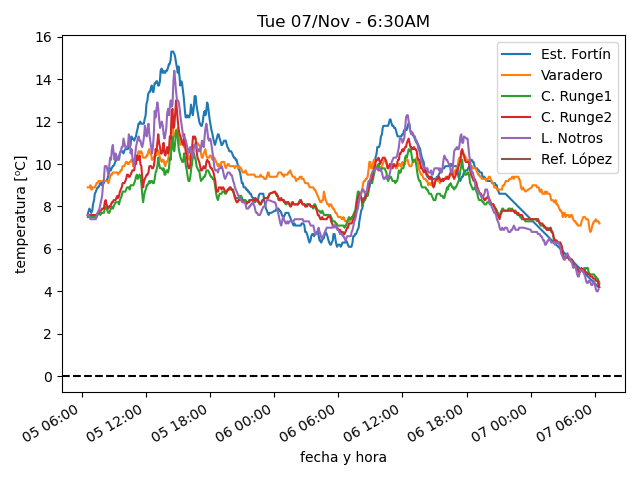
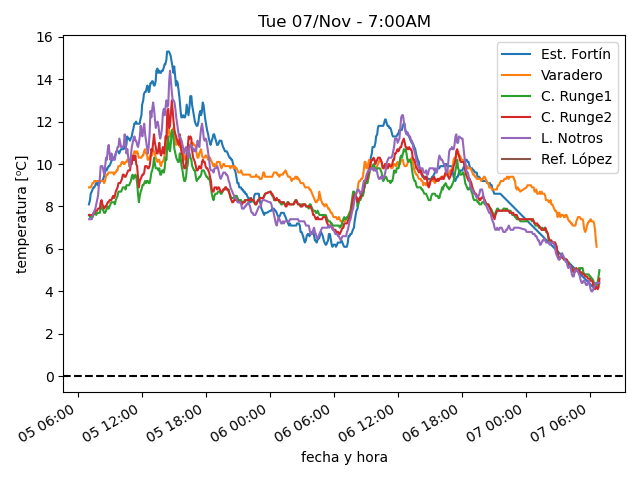
actualiza datos

diff --git a/estaciones/estacion2.html b/estaciones/estacion2.html
@@ -18,32 +18,32 @@
     </tr>
     <tr>
      <td class="stats_data">
-      6:24AM
+      6:38AM
      </td>
     </tr>
     <tr>
      <td class="stats_data">
-      7.2⁰C
+      6.1⁰C
      </td>
     </tr>
     <tr>
      <td class="stats_data">
-      3.9⁰C
+      3.5⁰C
      </td>
     </tr>
     <tr>
      <td class="stats_data">
-      79.5%
+      83.5%
      </td>
     </tr>
     <tr>
      <td class="stats_data">
-      1012.87hPa
+      1013.21hPa
      </td>
     </tr>
     <tr>
      <td class="stats_data">
-      10.1/14.3 km/hr WNW
+      4.0/5.6 km/hr SSW
      </td>
     </tr>
     <tr>
@@ -58,7 +58,7 @@
     </tr>
     <tr>
      <td class="stats_data">
-      2.9 W/m²
+      16.4 W/m²
      </td>
     </tr>
    </tbody>

diff --git a/estaciones/estacion4.html b/estaciones/estacion4.html
@@ -18,32 +18,32 @@
     </tr>
     <tr>
      <td class="stats_data">
-      6:24AM
+      6:54AM
      </td>
     </tr>
     <tr>
      <td class="stats_data">
-      4.2⁰C
+      4.6⁰C
      </td>
     </tr>
     <tr>
      <td class="stats_data">
-      2.7⁰C
+      2.8⁰C
      </td>
     </tr>
     <tr>
      <td class="stats_data">
-      89.8%
+      88.7%
      </td>
     </tr>
     <tr>
      <td class="stats_data">
-      1010.94hPa
+      1011.14hPa
      </td>
     </tr>
     <tr>
      <td class="stats_data">
-      0.3/0.8 km/hr SW
+      0.1/0.2 km/hr SW
      </td>
     </tr>
     <tr>
@@ -58,7 +58,7 @@
     </tr>
     <tr>
      <td class="stats_data">
-      2.6 W/m²
+      20.0 W/m²
      </td>
     </tr>
    </tbody>

diff --git a/estaciones/estacion3.html b/estaciones/estacion3.html
@@ -18,12 +18,12 @@
     </tr>
     <tr>
      <td class="stats_data">
-      6:24AM
+      6:54AM
      </td>
     </tr>
     <tr>
      <td class="stats_data">
-      4.4⁰C
+      5.0⁰C
      </td>
     </tr>
     <tr>
@@ -33,17 +33,17 @@
     </tr>
     <tr>
      <td class="stats_data">
-      92.5%
+      88.7%
      </td>
     </tr>
     <tr>
      <td class="stats_data">
-      1002.34hPa
+      1002.44hPa
      </td>
     </tr>
     <tr>
      <td class="stats_data">
-      3.0/3.9 km/hr SSW
+      2.0/3.0 km/hr WSW
      </td>
     </tr>
     <tr>
@@ -58,7 +58,7 @@
     </tr>
     <tr>
      <td class="stats_data">
-      2.6 W/m²
+      28.1 W/m²
      </td>
     </tr>
    </tbody>

diff --git a/estaciones/estacion1.html b/estaciones/estacion1.html
@@ -18,12 +18,12 @@
     </tr>
     <tr>
      <td class="stats_data">
-      6:23AM
+      6:33AM
      </td>
     </tr>
     <tr>
      <td class="stats_data">
-      4.3⁰C
+      4.2⁰C
      </td>
     </tr>
     <tr>
@@ -33,17 +33,17 @@
     </tr>
     <tr>
      <td class="stats_data">
-      79.5%
+      80.5%
      </td>
     </tr>
     <tr>
      <td class="stats_data">
-      1010.5hPa
+      1010.84hPa
      </td>
     </tr>
     <tr>
      <td class="stats_data">
-      1.6/5.6 km/hr S
+      0.7/4.8 km/hr SW
      </td>
     </tr>
     <tr>
@@ -58,7 +58,7 @@
     </tr>
     <tr>
      <td class="stats_data">
-      5.0 W/m²
+      14.0 W/m²
      </td>
     </tr>
    </tbody>

diff --git a/estaciones/estacion5.html b/estaciones/estacion5.html
@@ -18,17 +18,17 @@
     </tr>
     <tr>
      <td class="stats_data">
-      6:20AM
+      6:55AM
      </td>
     </tr>
     <tr>
      <td class="stats_data">
-      4.1⁰C
+      4.4⁰C
      </td>
     </tr>
     <tr>
      <td class="stats_data">
-      2.8⁰C
+      3.1⁰C
      </td>
     </tr>
     <tr>
@@ -38,7 +38,7 @@
     </tr>
     <tr>
      <td class="stats_data">
-      1014.29hPa
+      1014.22hPa
      </td>
     </tr>
     <tr>
@@ -48,7 +48,7 @@
     </tr>
     <tr>
      <td class="stats_data">
-      0.76 / 0.25 mm
+      0.76 / 0.0 mm
      </td>
     </tr>
     <tr>
